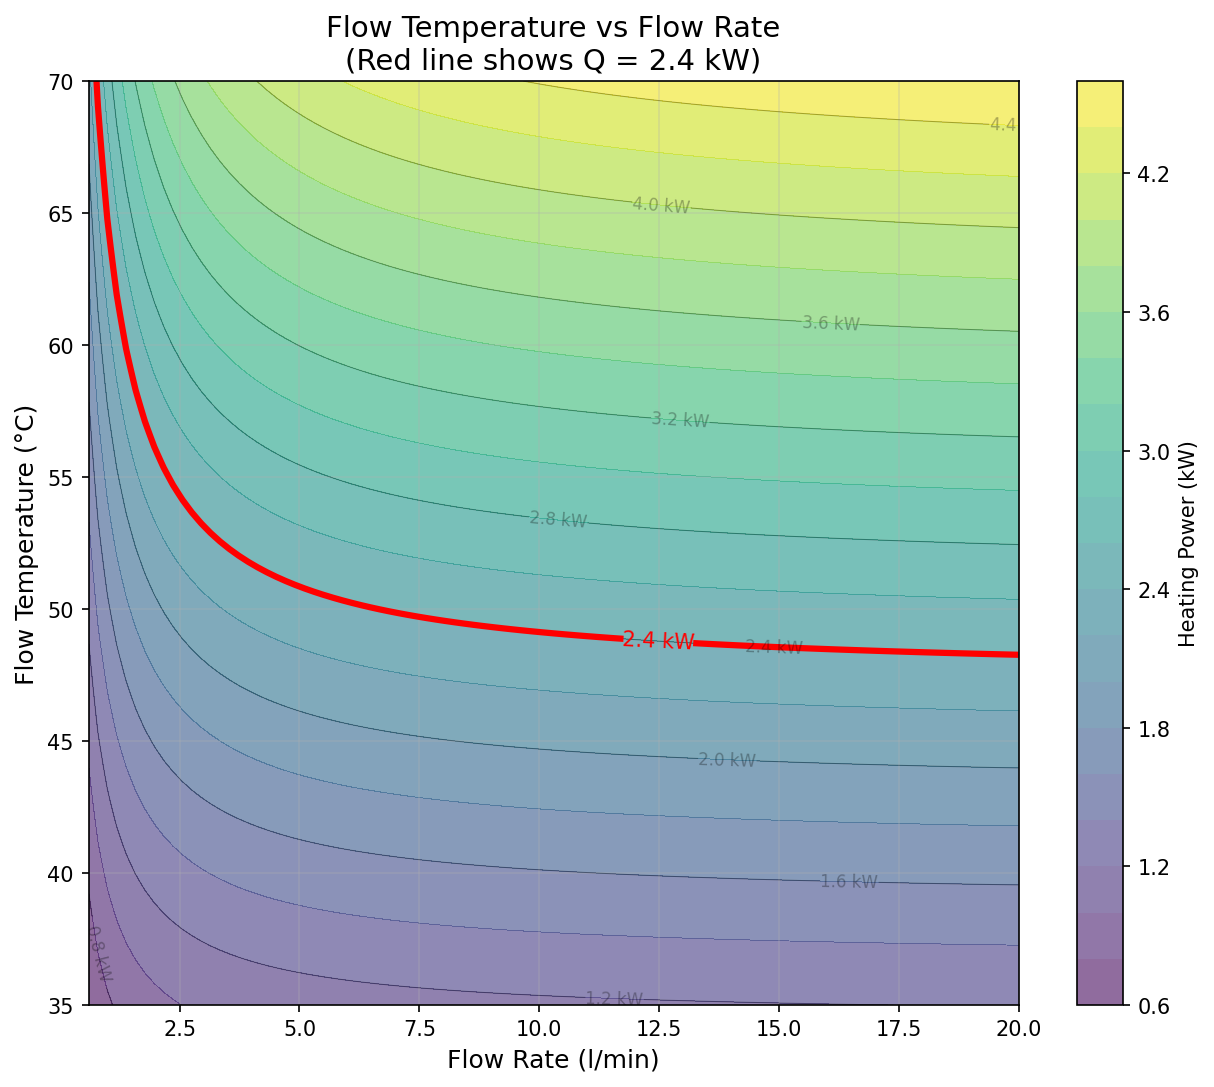
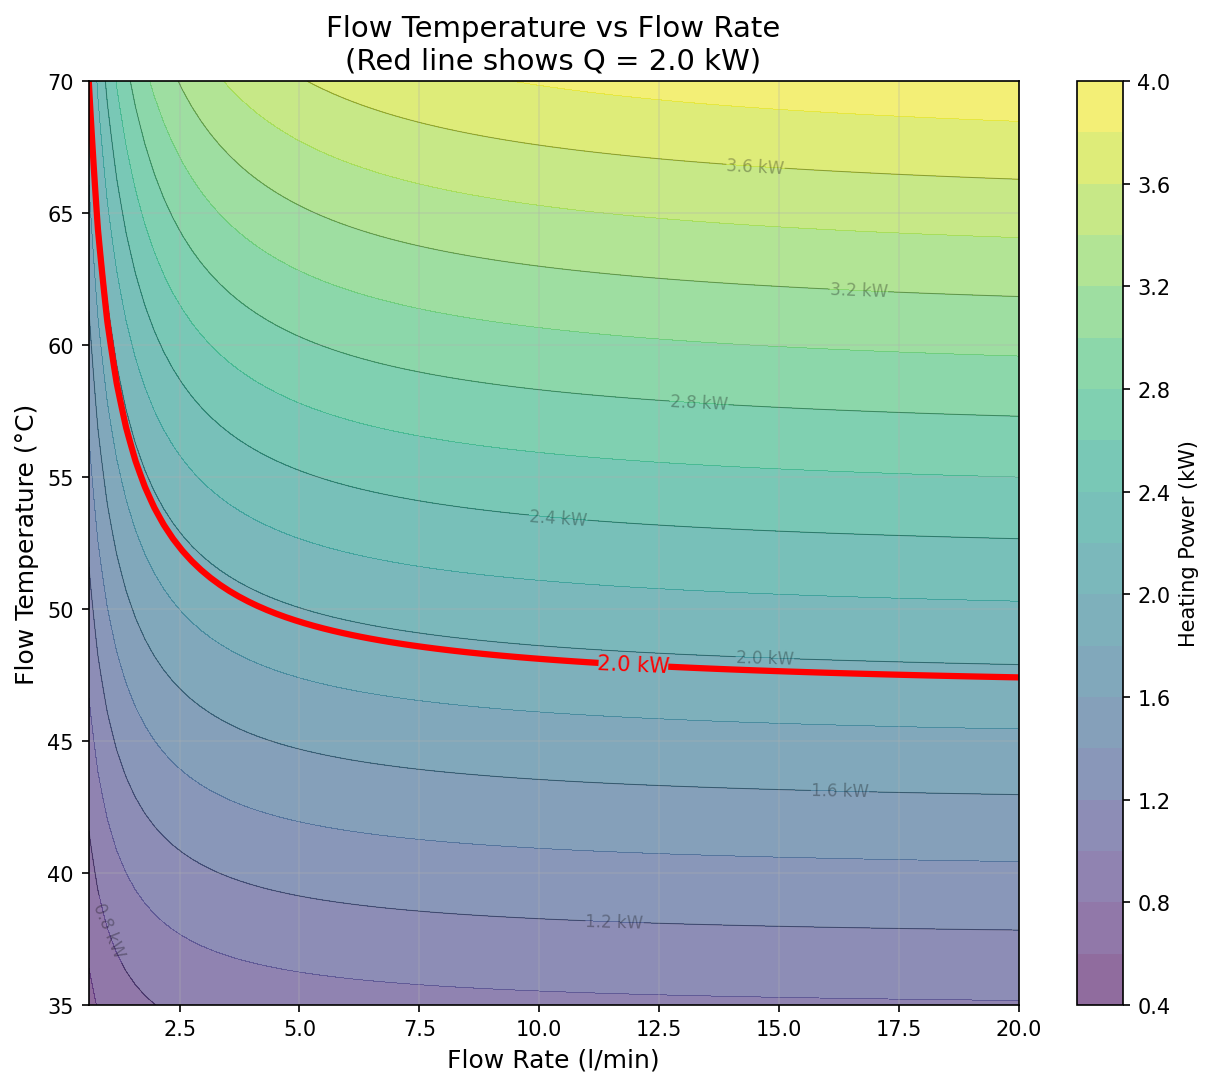
Minor rework and split into two articles.

diff --git a/src/heat_pump_cost/operations_model.py b/src/heat_pump_cost/operations_model.py
@@ -18,19 +18,19 @@ CP = 4180.0  # Specific heat capacity of water [J/kg/K]
 
 # House thermal properties
 HTC = 244.0  # Heat Transfer Coefficient [W/K]
-TI = 18.0  # Indoor temperature [°C] (January 2026 average)
+TI = 19.0  # Indoor temperature [°C] (January 2026 average)
 TO = 5.0  # Outdoor temperature [°C] (January 2026 average)
 
 # Radiator properties
 # Empirically calibrated from January 2026 actual operation:
-# - Average heating power: 2.0 kW at Ti=18°C, To=5°C
+# - Average heating power: 1.96 kW at Ti=19°C, To=5°C
 # - Observed mean radiator temp: ~47.5°C
 # - This includes all radiators + pipework heat distribution
-K_RAD = 34.6  # Empirical radiator constant [W/K^n]
+K_RAD = 36.4  # Empirical radiator constant [W/K^n]
 N_RAD = 1.2  # Radiator exponent
 
 # Target heating power (actual average from January 2026)
-Q_TARGET = 2000.0  # [W] = 2.0 kW average space heating from radiators
+Q_TARGET = 1960.0  # [W] = 1.96 kW average space heating from radiators
 
 
 def radiator_power(tf, tr, ti=TI):

diff --git a/operations-static.md b/operations-static.md
@@ -1,0 +1,108 @@
+# Accepting the Need for Radiator Upgrades with a Heat Pump Installation 
+
+Motivated by the desire to transition from fossil fuel heating and reduce CO2 emissions I have been reading extensively on heat pump installations. Various sources such as ["So You're Thinking About a Heat Pump: The UK Homeowner's Guide to Heat Pumps"](https://www.amazon.co.uk/Youre-Thinking-About-Heat-Pump/dp/B0GK7H511K/) or [The Ultimate Guide to Heat Pumps: Britain's best installers and experts tell you exactly what to watch for and what to ask](https://www.amazon.co.uk/Ultimate-Guide-Heat-Pumps-installers/dp/B0FNMNVC4Q) consistently recommend radiator upgrades for many properties, significantly increasing the installation cost.
+
+I initially hoped to avoid such an upgrade by leveraging our existing radiators, particularly given our supplemental log burner. However, quantitative analysis using steady-state thermal models reveals why expert advice is sound: the physical relationship between radiator capacity, flow temperature, and heat pump efficiency creates a fundamental constraint. For full decarbonisation without reliance on supplemental heating, radiator upgrades become not merely advisable but practically necessary to achieve acceptable operating economics.
+
+This analysis explains the underlying physics through simple static models, demonstrating why the contour of constant heating power on the flow rate versus temperature plane reveals the upgrade necessity. Note however that the approach focuses on order-of-magnitude understanding rather than comprehensive modelling or precise scientific calculation.
+
+# Static Analysis and Heat Loss
+
+The starting point of this analysis is the state of our property after [Improving the Thermal Performance of UK 1930s Semi Detached Houses](https://peter-wurmsdobler.medium.com/improving-the-thermal-performance-of-uk-1930s-semi-detached-houses-6f64c6514565): an estimated specific heat loss, or Heat Transfer Coefficient (HTC), of **244 W/K**. Using the actual average conditions from January 2026 with outdoor temperature To = 5°C and indoor temperature Ti = 19°C (approximately 20°C downstairs, perhaps about 18°C upstairs), the temperature difference ΔT = 14K gives a theoretical heat loss of Ql = 244 × 14 = **3.42 kW**.
+
+To validate this theoretical value, I analysed our actual energy consumption for January 2026. Total gas consumption was 1,924.91 kWh for that month (62.1 kWh/day) which includes space heating and domestic hot water. The latter is assumed to stay mostly the same throughout the year and determines the gas consumption in summer; in summer 2025 the gas consumption was about 12.5 kWh per day on average. A log burner providing approximately 3 kW output for 3 hours daily contributes 9 kWh/day supplemental heat (0.375 kW average). In addition, the annual electricity consumption is about 2,695 kWh/year, or 7.4 kWh per day.
+
+After subtracting hot water consumption (12.5 kWh/day), the remaining 49.6 kWh/day of gas provides 47.12 kWh/day of actual heat to radiators at 95% boiler efficiency, equivalent to 1.96 kW average power. Since most of electricity is eventually dissipated as heat, it will add about 0.3 kW as a heating equivalent. All combined, the total average heating power is 2.635 kW (radiators 1.96 kW + log burner 0.375 kW + appliances 0.3 kW). This measured value is 77% of the theoretical heat loss (3.42 kW), which is entirely reasonable considering thermal mass effects, unaccounted solar gain and internal heat gains from occupants, and the fact that not all rooms are maintained at 19°C continuously (entrance hall more like 15°C). 
+
+## Stationary Model of a House
+
+The model assumes a simple lumped-mass representation of the house with the following parameters: internal thermal capacity or mass `C`, insulated envelope with heat transfer coefficient `h`, internal temperature `Ti`, and outside temperature `To`. Heat is supplied as `Qh` through a flow rate `Vf` at flow temperature `Tf` and return temperature `Tr`. Heat is transferred to the internal thermal mass as `Qr` through radiators with a characteristic constant `K`. Supplemental heat `Qb` is provided by a log burner, and `Qa` from appliances. The house loses heat as `Ql` through the building fabric.
+
+![Simle termal model for house](assets/house-model.png)
+*Figure: Simple representation of a simple house model with heat sources and losses.*
+
+In an equilibrium, or steady state as a stationary process, the heat balance is:
+
+**Radiator circuit equilibrium:**
+Qh = Vf * rho * cp * (Tf - Tr) = Qr = K * ((Tf + Tr)/2 - Ti)^n
+
+**Room thermal balance:**
+Qr + Qb + Qa = Ql = h * (Ti - To)
+
+**Therefore, the radiator system must deliver:**
+Qr = Ql - Qb - Qa = h * (Ti - To) - Qb - Qa
+
+This simplified model treats all radiators as a single unit, assuming uniform flow and return temperatures throughout the system. The characteristic constant `K` represents the combined heat transfer capacity of all radiators plus the heating contribution from pipework distributed throughout the house. For the January 2026 conditions, the theoretical heat loss is Ql = 244 W/K × 14K = 3.42 kW, the log burner contributes Qb = 0.375 kW (average), appliances contribute Qa = 0.3 kW, giving a required radiator output of Qr = 2.745 kW (theoretical). The actual measured radiator output was Qr = 1.96 kW, with total heat delivered of 2.635 kW (77% of theoretical, accounting for thermal mass and internal gains).
+
+## Empirical Validation
+
+To validate the model, I used actual operating conditions from January 2026 with average radiator heating power of 1.96 kW, mean radiator temperature approximately 47.5°C (flow ~50°C, return ~45°C), indoor temperature 19°C, and temperature difference ΔT = 47.5 - 19 = 28.5K. The house radiators (see References) comprise Type 11 and Type 22 panels with total area 4.04 m² and calculated radiator constant from surface area of K = 35.9 W/K^n.
+
+Using the radiator equation `Qr = K × ΔT^n` with n = 1.2 and Qr = 1.96 kW gives 1960 W = K × (28.5)^1.2 = K × 53.9, yielding an empirical K = 36.4 W/K^1.2. The empirical value (36.4) is about 1% higher than the calculated value from radiator area alone (35.9), which provides excellent validation of our model. The close agreement confirms that the radiator specifications and operating conditions are accurately captured.
+
+## Steady-State Operating Envelope: Understanding the Constraint
+
+With our empirically validated radiator constant (K = 36.4 W/K^1.2), we can now explore the fundamental relationship between flow rate and flow temperature for delivering heating power. Using constants for water as the working fluid (ρ = 1 kg/l and cp = 4.18 kJ/kg/K), with the January 2026 average conditions (To = 5°C and Ti = 19°C), and radiator exponent n = 1.2, there are multiple combinations of flow temperature Tf and flow rate Vf that can deliver the same heating power.
+
+![Contour Plot](assets/operations_contour.png)
+*Figure: Contour plot showing constant heating power curves. The 1.96 kW average radiator heating power is highlighted in red. This curve represents the operational constraint imposed by the current radiator capacity. Total heating including log burner (0.375 kW) and appliances (0.3 kW) gives 2.635 kW.*
+
+**This contour plot reveals why radiator upgrades are recommended.** For a given radiator constant K, any target heating power defines a specific curve on this plot. The current radiators (K = 36.4 W/K^1.2) confine operation to the red 1.96 kW curve, which demonstrates the fundamental trade-off: low flow operation (~0.6 l/min) requires 70°C flow temperature with large temperature drop (ΔT ≈ 33K), whilst high flow operation (~20 l/min) requires only 47°C flow temperature with small temperature drop (ΔT ≈ 1.5K).
+
+The efficiency implications are severe. At 47°C, a heat pump can achieve a Coefficient of Performance (COP) of approximately 3.0, whereas at 70°C the COP drops to around 2.3, representing approximately 30% efficiency loss. To deliver higher heating power with the current radiators shifts the entire operating envelope upward into progressively lower COP territory. **Radiator upgrades with higher K values shift these contours downward, enabling higher heat delivery at lower, more efficient temperatures.** To deliver the theoretical peak load of 3.12 kW (with appliances contributing an additional 0.3 kW to reach total 3.42 kW) at an efficient 47°C would require K ≈ 63 W/K^1.2, approximately 1.7× the current capacity, illustrating precisely why experts recommend radiator upgrades.
+
+# Comparative Analysis: Gas Boiler vs Heat Pump
+
+To understand the practical implications of switching from a gas boiler to a heat pump, three scenarios are analysed based on the January 2026 measured performance. These scenarios are ordered by increasing dependence on the heat pump, revealing how the radiator capacity constraint progressively impacts performance and economics.
+
+## Scenario 1: Current Gas Boiler Operation (with Log Burner)
+
+Under actual January 2026 conditions, the radiators deliver Qr = 1.96 kW average whilst the log burner provides Qb = 0.375 kW average (9 kWh/day), and appliances contribute Qa = 0.3 kW, giving total heat Ql = 2.635 kW (including internal gains). The observed flow temperature is approximately 47°C with gas consumption for space heating of 49.6 kWh/day, resulting in a daily cost of £3.47 at 7p/kWh and 95% boiler efficiency.
+
+The current system already operates at relatively high flow rates (~20 l/min), typical of modern condensing boilers with variable speed pumps, enabling the relatively low flow temperature of 47°C. With flow at 47°C and return at ~46°C, the mean water temperature is approximately 46.5°C. The radiator surface temperature is typically a few degrees cooler (around 39-41°C) due to heat transfer to air and thermal radiation, matching observed experience: radiators feel warm but are still comfortable to touch during typical January conditions, confirming the model predictions.
+
+## Scenario 2: Heat Pump Replacing Gas Boiler (with Log Burner)
+
+If the gas boiler is replaced with a heat pump whilst continuing to use the log burner for supplemental heat, the heat balance remains with radiators delivering Qr = 1.96 kW, log burner providing Qb = 0.375 kW, appliances contributing Qa = 0.3 kW, and total heat Ql = 2.635 kW (including internal gains). High flow operation optimised for the heat pump at 20 l/min requires a flow temperature of 47°C with return temperature ~46°C (ΔT ≈ 1.4K), delivering 1.96 kW heating power. The estimated COP is 3.0 (at To=5°C, Tf=47°C), requiring electrical input of ~0.65 kW for daily electricity consumption of 15.7 kWh and daily cost of £3.93 at 25p/kWh. With the log burner continuing to provide supplemental heat and appliances contributing internal gains, the heat pump operates at excellent 47°C temperature but daily operating cost (£3.93) is 13% higher than gas (£3.47), making this scenario more expensive despite achieving fossil fuel independence.
+
+## Scenario 3: Heat Pump Without Log Burner
+
+Without the log burner, the heat pump must provide the full heating requirement, exposing the radiator capacity constraint. Based on the heat balance equation (Qr + Qb + Qa = Ql), removing the log burner means the total heat delivered Ql = 1.96 + 0.375 + 0.3 = 2.635 kW (actual measured, including appliance gains) must now come from radiators and appliances, with Qr = 2.335 kW required from the heat pump. This is 77% of the theoretical heat loss (3.42 kW), consistent with thermal mass effects and internal gains.
+
+Heat pump operation at maximum flow (20 l/min) requires a flow temperature of 52°C with return temperature ~50°C (ΔT ≈ 2K) to deliver 2.335 kW heating power. The estimated COP is 2.85 (at To=5°C, Tf=52°C), requiring electrical input of ~0.82 kW for daily electricity consumption of 19.7 kWh and daily cost of £4.93 at 25p/kWh. The operating cost is thus 42% higher than the gas+log burner configuration (£3.47/day).
+
+**The constraint becomes severe during peak conditions.** For a conservative design case representing the theoretical full load during the coldest conditions, appliances contribute Qa = 0.3 kW, leaving the heat pump to deliver 3.42 - 0.3 = 3.12 kW. At maximum flow (20 l/min), this requires a flow temperature of ~65°C with COP dropping to 2.45 and daily cost of £7.65. This worst-case scenario reveals why the expert recommendation for radiator upgrades is sound: attempting to deliver peak heating loads with insufficient radiator capacity forces operation into low-COP, high-cost territory.
+
+**With upgraded radiators (K ≈ 65 W/K^1.2):** The same 2.335 kW average load could be delivered at 45-47°C (COP ~3.2, daily cost ~£4.38), whilst the 3.12 kW peak load would require only 50-52°C (COP ~2.9, daily cost ~£6.46). The upgrade transforms both the economics and the practical viability of heat pump operation without supplemental heating.
+
+# Accepting the Radiator Upgrade Conclusion
+
+The quantitative analysis explains precisely why experts recommend radiator upgrades for heat pump installations. The contour plot reveals the fundamental constraint: current radiators with capacity K = 36.4 W/K^1.2 can deliver 1.96 kW at 47°C with excellent efficiency (COP ~3.0), but handling higher loads drives operation toward progressively higher temperatures and lower efficiency. At 2.335 kW (without log burner) the system requires 52°C (COP ~2.85), whilst the 3.12 kW theoretical peak load (accounting for 0.3 kW appliance contribution) demands ~65°C (COP ~2.45).
+
+**The physical constraint is unavoidable.** Without sufficient radiator capacity, delivering required heating power necessitates higher flow temperatures, which directly reduces heat pump COP and increases operating costs. This relationship is not a matter of control strategy or operational optimisation; it is determined by the fundamental heat transfer equations.
+
+**Economic reality confirms the upgrade necessity.** Three scenarios demonstrate the progression:
+
+1. **With log burner + heat pump**: Current radiators operate at excellent 47°C (£3.93/day), but this is 13% more expensive than the gas boiler (£3.47/day). Moreover, this maintains partial dependence on combustion heating, falling short of full decarbonisation.
+
+2. **Heat pump alone, current radiators**: Average operation costs £4.93/day at 52°C (42% more expensive than gas+log), whilst peak conditions cost £7.65/day at 65°C (120% more expensive). This scenario is economically unattractive and fails to deliver the efficiency benefits that justify heat pump investment.
+
+3. **Heat pump alone, upgraded radiators (K ≈ 65 W/K^1.2)**: Average operation would cost ~£4.38/day at 45-47°C (COP ~3.2), whilst peak conditions would cost ~£6.46/day at 50-52°C (COP ~2.9). This scenario achieves both decarbonisation and improved economics, approaching closer to parity with gas heating.
+
+**The recommended upgrade specification:** Target K value of 60-70 W/K^1.2 (approximately 1.7-1.9× current capacity), achieved by replacing existing radiators with larger Type 22 panels, adding additional radiators in key rooms, or upgrading to Type 33 (triple panel) in limited spaces. This would enable delivery of the 3.12 kW peak load at 45-47°C (accounting for 0.3 kW appliance contribution to reach theoretical 3.42 kW total). Estimated cost £2,500-5,000 with annual saving from improved COP of £150-300/year, giving payback of 10-20 years.
+
+**Accepting the necessity:** Current radiators cannot support economically viable heat pump operation even with supplemental heating, as costs exceed gas heating in all scenarios. Achieving complete decarbonisation with acceptable economics requires radiator upgrades. The contour plot makes this constraint visually explicit: delivering peak heating loads at efficient temperatures below 50°C demands substantially higher radiator capacity. The upgrade cost, whilst substantial, is the price of shifting the operating envelope downward into high-COP territory, transforming heat pump economics from clearly disadvantageous to approaching parity with fossil fuel heating.
+
+The expert advice is sound. For homeowners committed to full decarbonisation and long-term heat pump operation, radiator upgrades are not merely recommended but absolutely essential to achieve acceptable operating costs that make the technology transition economically viable.
+
+
+# References
+
+**Radiator specifications:** The installed radiators comprise single panel with single convector (Type 11) with dimensions 0.6×0.5 m, 1.0×0.5 m, 1.2×0.5 m, 0.5×0.6 m, and two 0.4×1.8 m panels totalling A = 3.14 m², and double panel with double convector (Type 22) with dimensions 0.6×0.5 m and 1.2×0.5 m totalling A = 0.9 m². Total radiator area is 4.04 m². Heat transfer coefficients based on typical radiator performance data (validated against multiple sources including manufacturer specifications and Google Gemini) are U ≈ 8 W/m²/K^1.2 for Type 11 radiators and U ≈ 12 W/m²/K^1.2 for Type 22 radiators.
+
+**Boiler efficiency:** The Viessmann condensing gas boiler achieves 95% efficiency under typical operating conditions.
+
+**Energy costs** as of January 2026: Natural gas at 7p/kWh and electricity assumed at 25p/kWh for heat pump analysis.
+
+**Appliance contribution:** Annual electricity consumption of approximately 2,695 kWh (7.4 kWh/day) is assumed to be largely dissipated as heat within the house (0.3 kW average), contributing to internal gains and reducing the heating load that must be supplied by radiators and supplemental heating sources.
+

diff --git a/operations-dynamic.md b/operations-dynamic.md
@@ -1,0 +1,7 @@
+# Quantitative Analysis of Heat Pump Operation for Domestic Heating
+
+This analysis examines heat pump operation for domestic heating, motivated by the desire to transition from fossil fuel heating and reduce CO2 emissions. Heat pumps require different operating strategies compared to gas boilers, as discussed in sources such as ["So You're Thinking About a Heat Pump: The UK Homeowner's Guide to Heat Pumps"](https://www.amazon.co.uk/Youre-Thinking-About-Heat-Pump/dp/B0GK7H511K/). The objective of this analysis is to demonstrate quantitatively how control and operation strategy impacts the economics of domestic heat pump heating. The approach focuses on order-of-magnitude understanding rather than comprehensive modelling or precise scientific calculation.
+
+# Dynamic Heating Requirements
+
+[Future analysis: This section would explore time-varying heating demands, thermal mass effects, and optimized control strategies for minimizing energy consumption while maintaining comfort. The analysis would include temperature setback strategies, heat pump cycling, and the interaction between building thermal mass and heating system response time.] 
